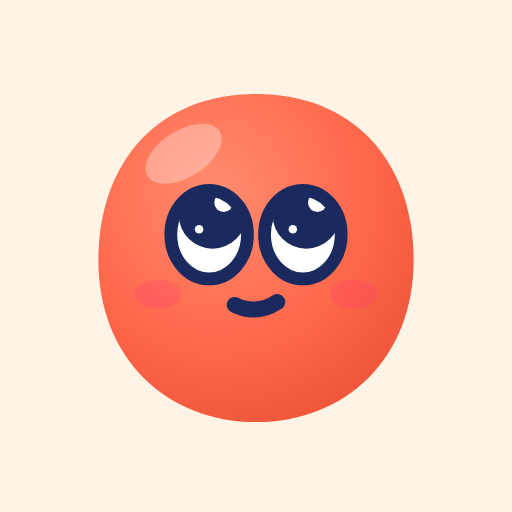
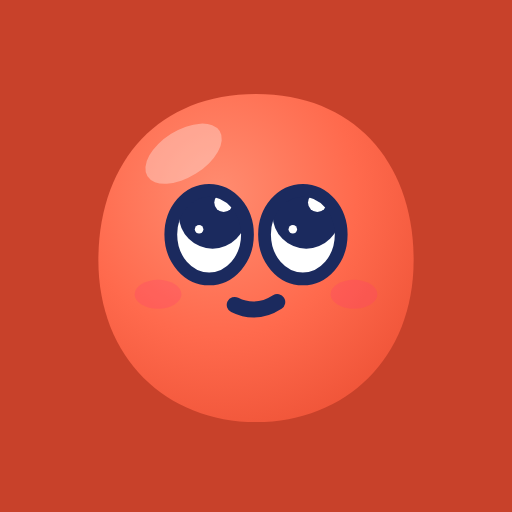
App-icoon: Denker op koraal diep in plaats van room (ADR-246)
Keuze van de eigenaar. Gewoon koraal kan niet, want dan valt Denker weg in
zijn grond; koraal diep (#C8412A) laat zijn ronde vorm zien en blijft koraal.
Het tabblad blijft Denker los.

Claude-Session: https://claude.ai/code/session_01BGuQ5kgGV4VRSK7jk6dvcz

diff --git a/docs/leer.js b/docs/leer.js
@@ -189,8 +189,8 @@
       const ink = k === 'wit' ? '#FFFFFF' : C.cacao; const pdot = k === 'kleur' ? C.koraal : ink;
       let svg;
       if (v === 'icoon') {
-        // Het beeldmerk zelf op een tegel in room: dezelfde Denker als in het logo, heel, niet alleen zijn gezicht.
-        svg = `<svg viewBox="0 0 100 100" height="${h}" role="img" aria-label="leer.nu"><rect width="100" height="100" rx="24" fill="${C.room}"/><g transform="translate(50 50.5) scale(1.04) translate(-50 -55.5)">${logoDenker(this._id)}</g></svg>`;
+        // Het beeldmerk zelf op een tegel in koraal diep: dezelfde Denker als in het logo, heel, en lichter dan zijn grond.
+        svg = `<svg viewBox="0 0 100 100" height="${h}" role="img" aria-label="leer.nu"><rect width="100" height="100" rx="24" fill="${C.koraalDiep}"/><g transform="translate(50 50.5) scale(1.04) translate(-50 -55.5)">${logoDenker(this._id)}</g></svg>`;
       } else if (v === 'favicon') {
         // Het tabblad: Denker los en in de eenvoudige tekening, want onder 36 px vallen glans, wangen en lichtjes weg.
         const d = denkerDelen('denken', this._id, true);

diff --git a/docs/DECISIONS.md b/docs/DECISIONS.md
@@ -14211,7 +14211,7 @@ volgt Google niet. De pagina's hingen dus alleen aan de sitemap.
 - **Alle onderwerpen van het vak**, ook als dat bij rekenen een lange rij is.
   Het zijn dezelfde links als op de pagina voor Google, uit één lijst.
 
-## ADR-246 — Het app-icoon is de hele Denker, op room
+## ADR-246 — Het app-icoon is de hele Denker, op koraal diep
 
 **Status:** accepted. **Date:** 2026-09-30. Op verzoek van de eigenaar: "Wijzig
 ook het app icoon op basis van het nieuwe beeldmerk." Wijzigt het app-icoon
@@ -14224,25 +14224,26 @@ daardoor een ander merk dan het logo naast de naam.
 
 **Besluit.**
 
-- **Het icoon is het beeldmerk op een tegel in room** (`#FFF3E6`): dezelfde
-  Denker die denkt als in het logo, heel, zonder schaduw. `leer-logo
-variant="icoon"` in `docs/leer.js` tekent hem; `tools/merk-uit-leer.mjs`
-  schrijft de bestanden.
-- **De maskable versie** vult het hele vlak met room en zet Denker in de veilige
-  zone, zoals eerst het gezicht.
+- **Het icoon is het beeldmerk op een tegel in koraal diep** (`#C8412A`):
+  dezelfde Denker die denkt als in het logo, heel, zonder schaduw. De variant
+  `icoon` van `leer-logo` in `docs/leer.js` tekent hem, en
+  `tools/merk-uit-leer.mjs` schrijft de bestanden.
+- **De maskable versie** vult het hele vlak met koraal diep en zet Denker in de
+  veilige zone, zoals eerst het gezicht.
 - **Het tabblad** (`favicon.svg`, `.ico`, 16 en 32 px) krijgt Denker los, in de
-  eenvoudige tekening (`variant="favicon"`): onder 36 px vallen glans, wangen
-  en lichtjes weg, zoals de stijlgids zegt. Een tegel in room zou in een licht
-  tabblad wegvallen.
+  eenvoudige tekening (variant `favicon`): onder 36 px vallen glans, wangen en
+  lichtjes weg, zoals de stijlgids zegt. Op een tegel zou Denker daar te klein
+  zijn om te herkennen.
 - **De rest blijft**: logo's, uitdrukkingen, og-image en het manifest zijn
   byte voor byte gelijk.
 
 **Afwegingen.**
 
-- **Room tegenover koraal als grond.** Een koraal tegel valt meer op tussen
-  andere apps, maar dan is Denker geen vorm meer, alleen een gezicht. Room is
-  ook de kleur van het opstartscherm (`background_color`), dus het icoon en het
-  scherm dat erna komt, zijn één beeld.
+- **Koraal diep tegenover room als grond.** Eerst stond Denker op room; de
+  eigenaar koos koraal, omdat een koraal tegel meer opvalt tussen andere apps
+  en de merkkleur is. Gewoon koraal kan niet: dan valt Denker weg in zijn grond
+  en is hij weer alleen een gezicht. Koraal diep is donker genoeg om zijn ronde
+  vorm te laten zien, en blijft koraal.
 
 ## Deferred with accounts and commerce (ADR-014)
 

diff --git a/docs/ROADMAP.md b/docs/ROADMAP.md
@@ -208,7 +208,7 @@ Niets open.
 
 | PR        | Wat                                                                                                                                                                                                                                                                                                                                  | ADR      |
 | --------- | ------------------------------------------------------------------------------------------------------------------------------------------------------------------------------------------------------------------------------------------------------------------------------------------------------------------------------------ | -------- |
-| #186      | De kop van een vak- of onderwerppagina noemt zonder naam het onderwerp ("Provincies van Nederland oefenen"), en onder een onderwerp staan de andere onderwerpen van het vak als echte links, voor Google. Het app-icoon is de hele Denker op een tegel in room, het tabblad Denker los                                               | 245, 246 |
+| #186      | De kop van een vak- of onderwerppagina noemt zonder naam het onderwerp ("Provincies van Nederland oefenen"), en onder een onderwerp staan de andere onderwerpen van het vak als echte links, voor Google. Het app-icoon is de hele Denker op een tegel in koraal diep, het tabblad Denker los                                        | 245, 246 |
 | #185      | Groep 1 en 2 in de groepsvraag, eerst om te meten: voor een kleuter "Voor groep 1 en 2 komt er iets aan" op Vandaag, de teller telt `/1` en `/2`, migratie 0004, en het plan met de opnamelijst in `kleuters.md`                                                                                                                     | 244      |
 | #184      | De groep bovenaan Vandaag: een nieuw kind kiest zijn groep (of "Weet ik niet") en daarna een van de vijf onderwerpen van die groep, in plaats van altijd de provincies; de teller telt de gekozen groep                                                                                                                              | 243      |
 | #183      | Wat er op de server staat, nu en met het gezinsaccount; een vijfde vraag voor de privacyverklaring (elk antwoord van een kind bewaren of niet); de logs van Supabase bij de verwerkersovereenkomst; en geen klantnamen in de notitie van een premiumcode                                                                             | —        |
